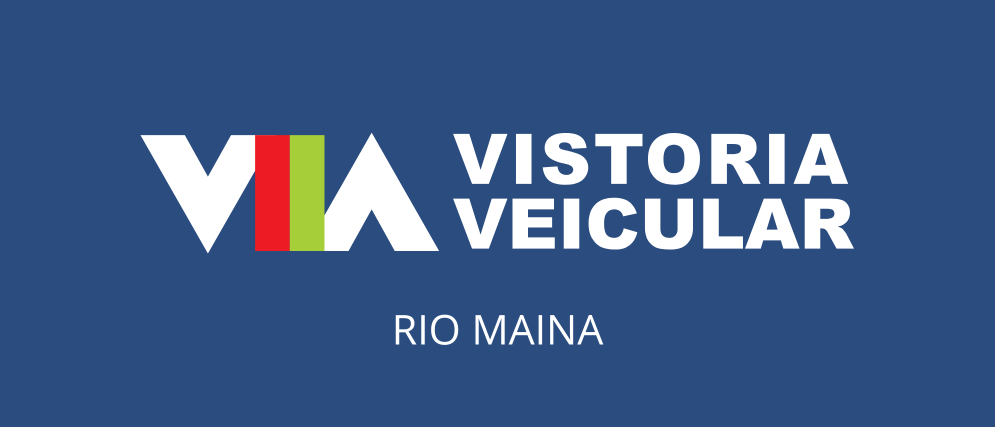
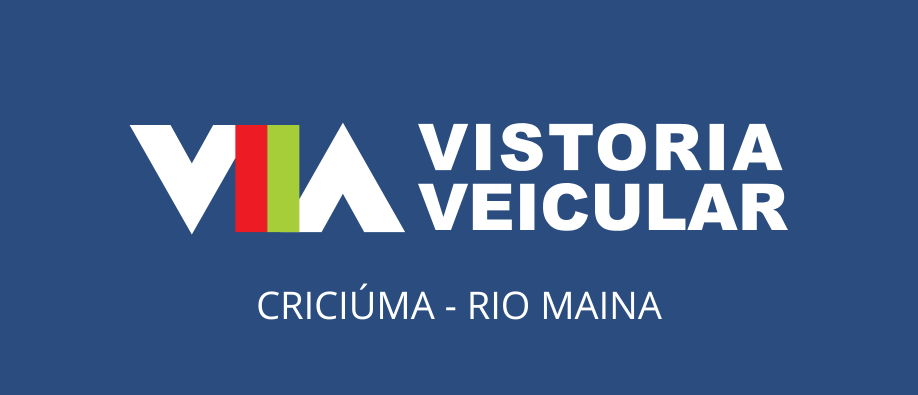
Update address constant: modify cityAndNeigh for improved clarity

diff --git a/src/constants/addresses.ts b/src/constants/addresses.ts
@@ -51,7 +51,7 @@ export const addresses = [
     image: criciumaCentro,
   },
   {
-    cityAndNeigh: "VIA VISTORIA - RIO MAINA",
+    cityAndNeigh: "VIA VISTORIA CRICIÚMA - RIO MAINA",
     street:
       "Rua Lourenço Zanette, 2111 - Sala 02 - Vila Floresta II - Criciúma - SC",
     phoneNumber: "(48) 99117-8955",
